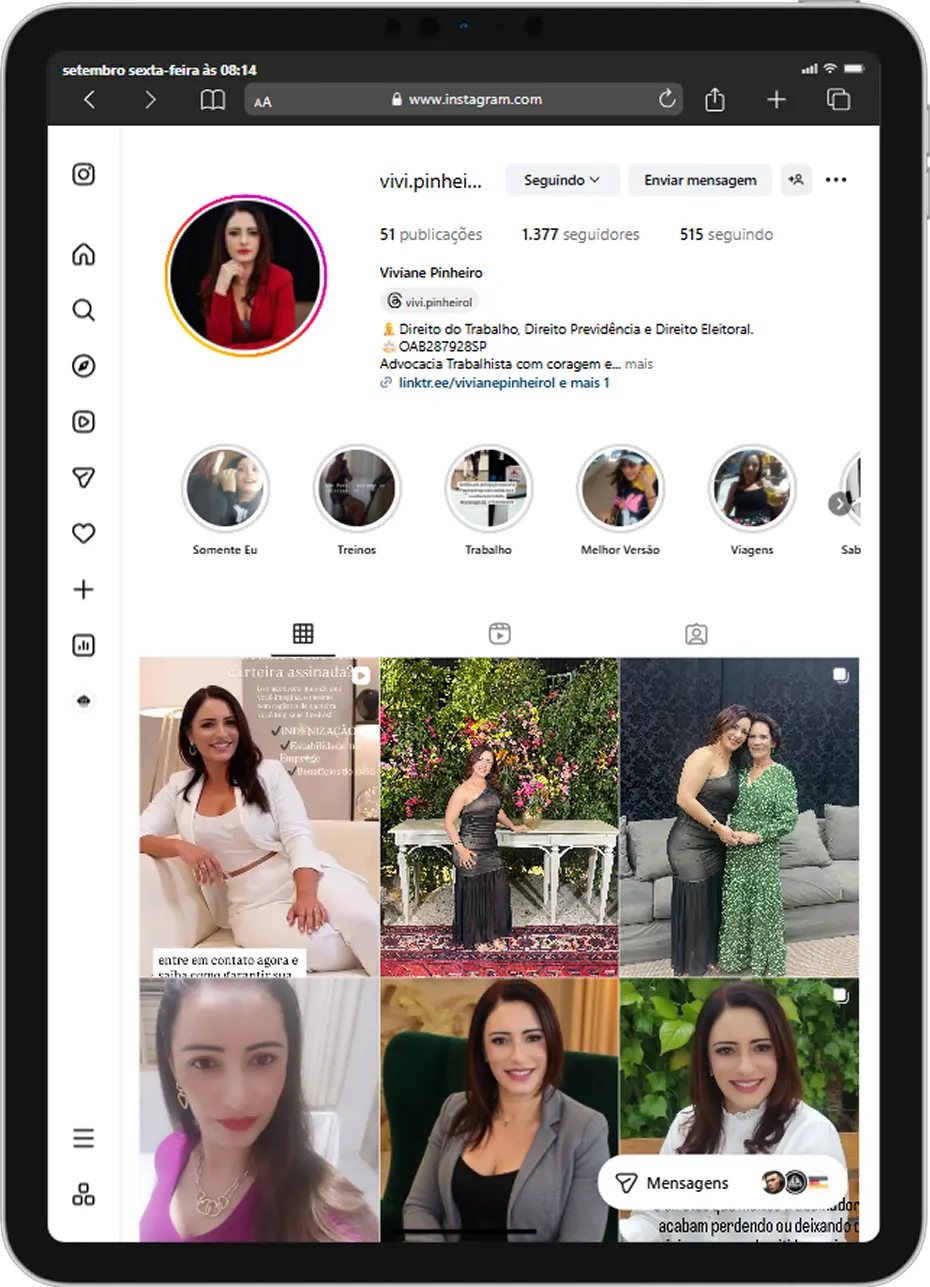
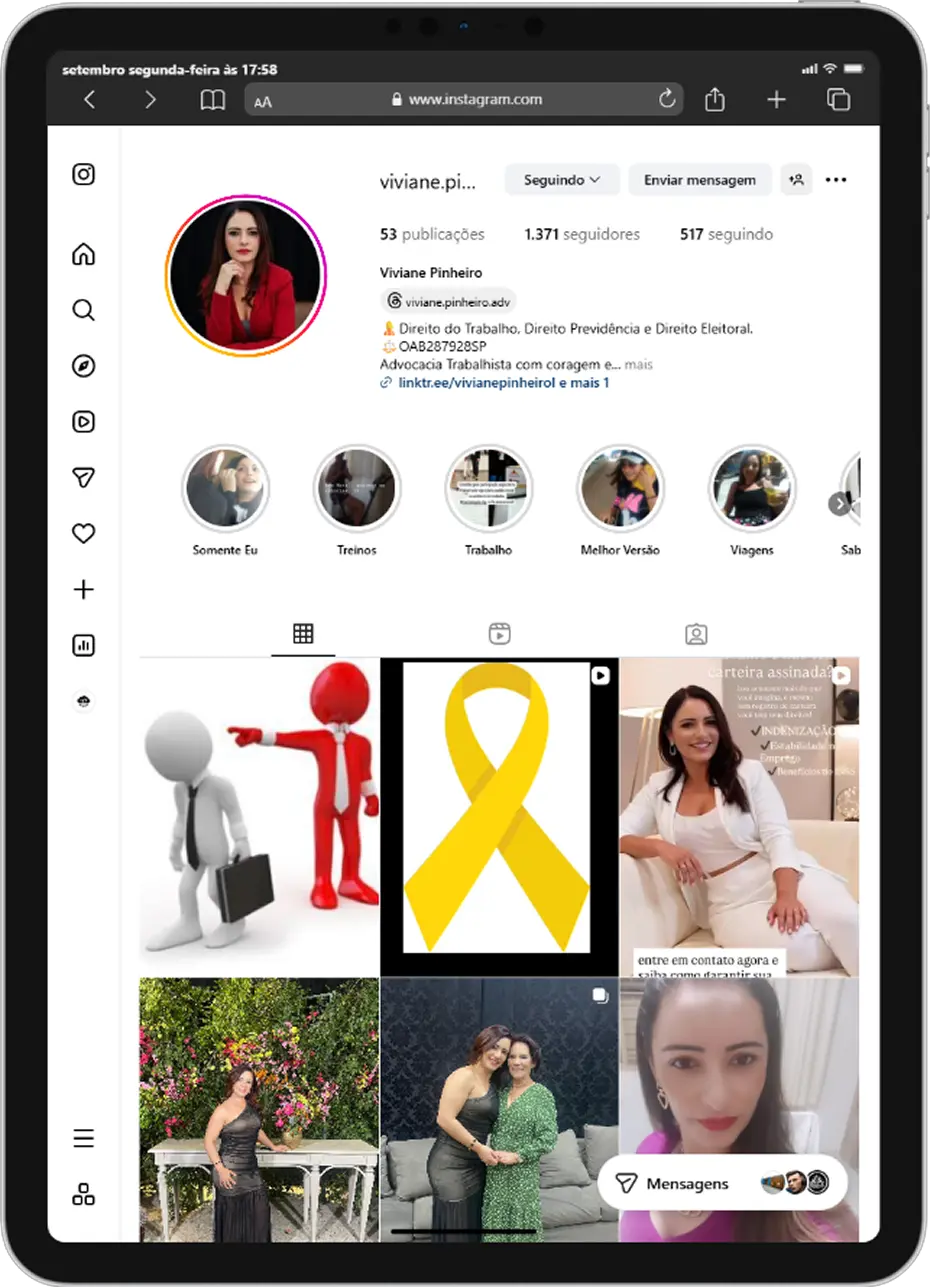
fix: AboutInstagram atualizado

diff --git a/src/content/content.jsx b/src/content/content.jsx
@@ -93,7 +93,7 @@ export const infos = {
     </div>
   ),
   obs: <span className="italic">A Definir</span>,
-  instagramProfile: "vivi.pinheirol", // Sem o @
+  instagramProfile: "viviane.pinheiro.adv", // Sem o @
   facebookProfile: "A_Definir",
   linkeDinProfile: "A_Definir",
   x: "A_Definir",
